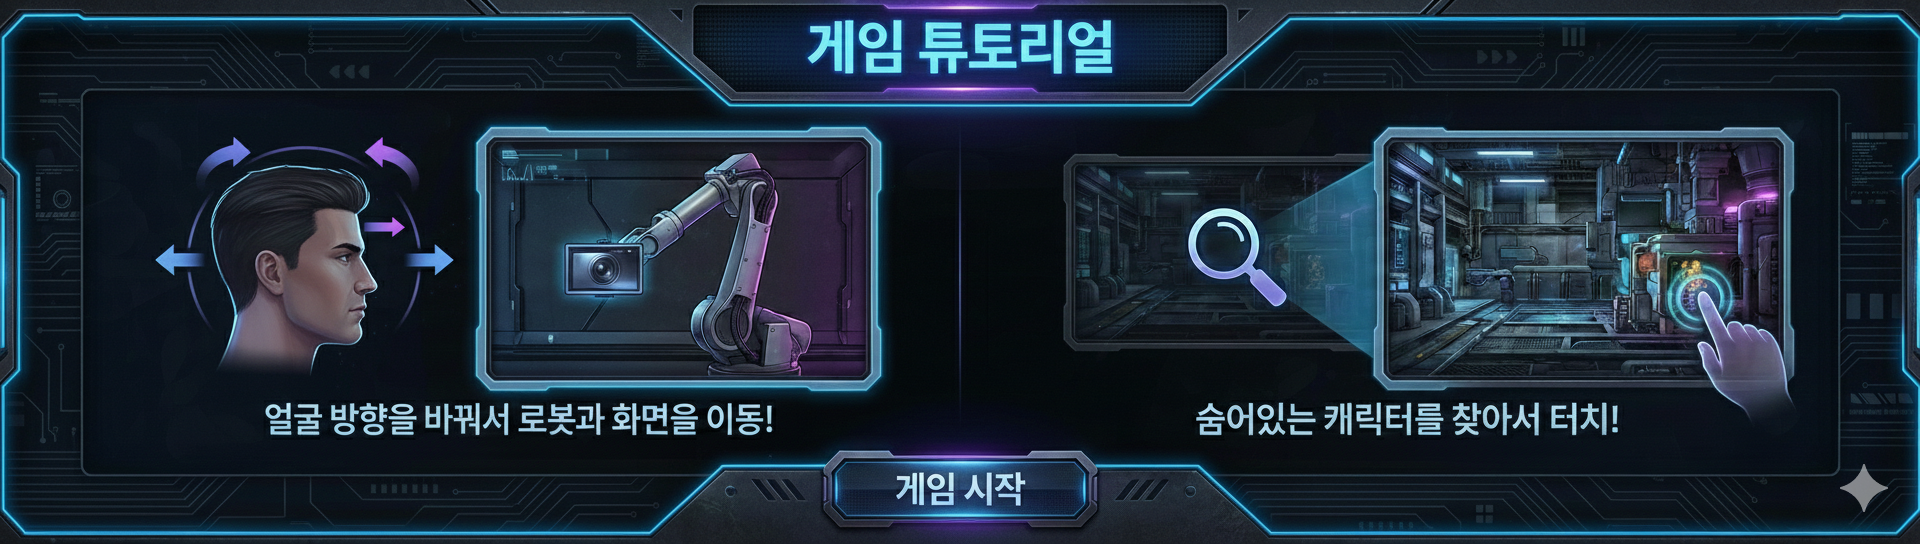
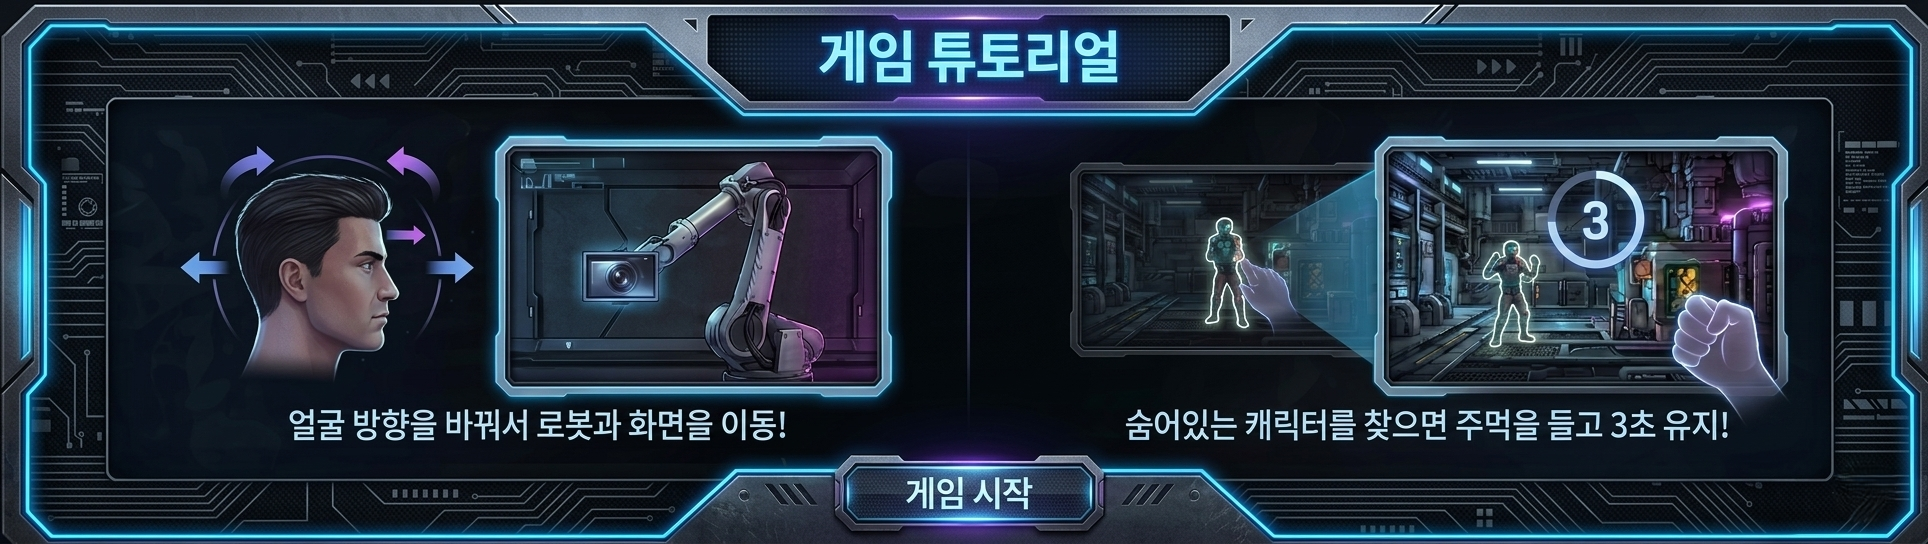
feat: game02에서 정답 찾는 방법 모니터 화면 터치에서 카메라에 주먹 3초 인식으로 변경 - python에서 주먹 인식 유지 progress 0~100 으로 보내주는 것을 받아서 UI및 게임에 반영

diff --git a/scenes/Game02/hooks/useGame02.ts b/scenes/Game02/hooks/useGame02.ts
@@ -31,6 +31,7 @@ import {
   computeViewWindow,
   normalizeError,
   isClickOnTarget,
+  isViewContainingTarget,
   formatTime,
 } from '../utils';
 
@@ -54,9 +55,15 @@ export function useGame02(
   const [timeLeft, setTimeLeft] = useState(GAME_TIME_LIMIT);
   const [lastClick, setLastClick] = useState<{ x: number; y: number } | null>(null);
   const [pauseOverlayVisible, setPauseOverlayVisible] = useState(false);
+  const [rockProgress, setRockProgress] = useState(0); // 0~100, Python GAME02_PROGRESS_ANSWER
   const timerRef = useRef<ReturnType<typeof setInterval> | null>(null);
   const resultReportedRef = useRef(false);
   const viewportRef = useRef<HTMLDivElement | null>(null);
+  const prevRockProgressRef = useRef(0);
+  const scenarioRef = useRef(scenario);
+  const viewTopLeftRef = useRef<{ x: number; y: number }>({ x: 0, y: 0 });
+  const viewWindowRef = useRef<{ w: number; h: number }>({ w: 1, h: 1 });
+  const stateRef = useRef(state);
 
   const [viewportAspect, setViewportAspect] = useState<number>(DEFAULT_SCENE_ASPECT);
   const viewWindow = useMemo(
@@ -71,6 +78,11 @@ export function useGame02(
   const [viewTopLeft, setViewTopLeft] = useState<{ x: number; y: number }>(
     DEFAULT_CENTER_TOP_LEFT
   );
+
+  scenarioRef.current = scenario;
+  viewTopLeftRef.current = viewTopLeft;
+  viewWindowRef.current = viewWindow;
+  stateRef.current = state;
 
   const dragRef = useRef<{
     active: boolean;
@@ -172,6 +184,38 @@ export function useGame02(
     });
     return () => { unsubscribe(); };
   }, []);
+
+  // Python Vision WebSocket: GAME02_PROGRESS_ANSWER(0~100) 수신. 100 도달 시 현재 뷰에 정답 포함 여부로 success/fail
+  useEffect(() => {
+    const unsubscribe = getVisionWsService().onGame02ProgressAnswer((progress: number) => {
+      setRockProgress(progress);
+      if (progress >= 100 && prevRockProgressRef.current < 100 && stateRef.current === Game02State.PLAYING) {
+        const s = scenarioRef.current;
+        const vt = viewTopLeftRef.current;
+        const vw = viewWindowRef.current;
+        if (s && vt && vw) {
+          const hit = isViewContainingTarget(s, vt, vw);
+          if (hit) {
+            setState(Game02State.SUCCESS);
+            confetti({ particleCount: 150, spread: 70, origin: { y: 0.6 } });
+          } else {
+            setReasoning('거기가 아닙니다!');
+            setTimeout(() => setReasoning(''), 2000);
+          }
+        }
+      }
+      prevRockProgressRef.current = progress;
+    });
+    return () => { unsubscribe(); };
+  }, []);
+
+  // 씬/라운드 바뀔 때 rock progress 초기화
+  useEffect(() => {
+    if (state !== Game02State.PLAYING) {
+      setRockProgress(0);
+      prevRockProgressRef.current = 0;
+    }
+  }, [state]);
 
   useEffect(() => {
     if (state === Game02State.ANNOUNCING) {
@@ -405,5 +449,6 @@ export function useGame02(
     formatTime,
     pauseOverlayVisible,
     handlePauseCancel,
+    rockProgress,
   };
 }

diff --git a/scenes/Game02/screens/Game02Play.tsx b/scenes/Game02/screens/Game02Play.tsx
@@ -22,6 +22,7 @@ export interface Game02PlayProps {
   };
   lastClick: { x: number; y: number } | null;
   reasoning: string;
+  rockProgress: number; // 0~100, Python GAME02_PROGRESS_ANSWER (rock 3초 유지)
   viewportRef: React.RefObject<HTMLDivElement | null>;
   formatTime: (seconds: number) => string;
   onViewportPointerDown: (e: React.PointerEvent<HTMLDivElement>) => void;
@@ -43,6 +44,7 @@ const Game02Play: React.FC<Game02PlayProps> = ({
   viewPoseStatus,
   lastClick,
   reasoning,
+  rockProgress,
   viewportRef,
   formatTime,
   onViewportPointerDown,
@@ -159,6 +161,32 @@ const Game02Play: React.FC<Game02PlayProps> = ({
                 willChange: 'transform',
               }}
             />
+
+            {/* Rock 3초 유지 진행률: 흰색 원형 progress bar (게임 이미지 뷰 위) */}
+            {state === Game02State.PLAYING && rockProgress > 0 && (
+              <div className="absolute inset-0 flex items-center justify-center pointer-events-none z-20">
+                <svg className="w-[min(80vw,80vh)] h-[min(80vw,80vh)] -rotate-90" viewBox="0 0 100 100" aria-hidden>
+                  <circle
+                    cx="50"
+                    cy="50"
+                    r="48"
+                    fill="none"
+                    stroke="rgba(255,255,255,0.2)"
+                    strokeWidth="4"
+                  />
+                  <circle
+                    cx="50"
+                    cy="50"
+                    r="48"
+                    fill="none"
+                    stroke="white"
+                    strokeWidth="4"
+                    strokeLinecap="round"
+                    strokeDasharray={`${(rockProgress / 100) * 2 * Math.PI * 48} ${2 * Math.PI * 48}`}
+                  />
+                </svg>
+              </div>
+            )}
 
             {lastClick && (
               <div

diff --git a/services/visionWebSocketService.ts b/services/visionWebSocketService.ts
@@ -99,6 +99,7 @@ export class VisionWebSocketService {
   private onQRROICallback?: (data: VisionQRROIData) => void;
   private onGame05AttackCallback?: () => void;
   private onGame02PauseCallback?: () => void;
+  private onGame02ProgressAnswerCallback?: (progress: number) => void;
   private onGame04PauseCallback?: () => void;
 
   constructor(url: string) {
@@ -391,6 +392,11 @@ export class VisionWebSocketService {
       } else if (name === VisionMessageName.GAME02_PAUSE) {
         this.onGame02PauseCallback?.();
         console.log('[VisionWS] GAME02_PAUSE received');
+      } else if (name === VisionMessageName.GAME02_PROGRESS_ANSWER) {
+        const data = payload as { progress?: number };
+        if (data && typeof data.progress === 'number') {
+          this.onGame02ProgressAnswerCallback?.(Math.min(100, Math.max(0, data.progress)));
+        }
       } else if (name === VisionMessageName.GAME04_PAUSE) {
         this.onGame04PauseCallback?.();
         console.log('[VisionWS] GAME04_PAUSE received');
@@ -459,6 +465,12 @@ export class VisionWebSocketService {
   onGame02Pause(cb: () => void): () => void {
     this.onGame02PauseCallback = cb;
     return () => { this.onGame02PauseCallback = undefined; };
+  }
+
+  /** Game02 씬에서 Python이 GAME02_PROGRESS_ANSWER(0~100) 수신 시 구독. rock 3초 유지 진행률. */
+  onGame02ProgressAnswer(cb: (progress: number) => void): () => void {
+    this.onGame02ProgressAnswerCallback = cb;
+    return () => { this.onGame02ProgressAnswerCallback = undefined; };
   }
 
   /** Game04 씬에서 Python이 GAME04_PAUSE 수신 시 구독. PAUSE 오버레이 표시용. */

diff --git a/scenes/Game02/utils.ts b/scenes/Game02/utils.ts
@@ -92,6 +92,24 @@ export function isClickOnTarget(
   return x >= pxmin && x <= pxmax && y >= pymin && y <= pymax;
 }
 
+/** 현재 뷰 영역(viewTopLeft, viewWindow, 0~1)이 타겟 박스를 포함하는지(겹치는지) */
+export function isViewContainingTarget(
+  scenario: GameScenario,
+  viewTopLeft: { x: number; y: number },
+  viewWindow: { w: number; h: number }
+): boolean {
+  const [ymin, xmin, ymax, xmax] = scenario.targetBox;
+  const viewLeft = viewTopLeft.x;
+  const viewRight = viewTopLeft.x + viewWindow.w;
+  const viewTop = viewTopLeft.y;
+  const viewBottom = viewTopLeft.y + viewWindow.h;
+  const tLeft = xmin / 1000;
+  const tRight = xmax / 1000;
+  const tTop = ymin / 1000;
+  const tBottom = ymax / 1000;
+  return viewLeft < tRight && viewRight > tLeft && viewTop < tBottom && viewBottom > tTop;
+}
+
 /** base64 장면 이미지에서 targetBox 영역 크롭 → data URL */
 export function cropTargetImage(
   base64: string,

diff --git a/protocol.ts b/protocol.ts
@@ -153,6 +153,8 @@ export const VisionMessageName = {
   GAME02_MAINGAME_START: 'GAME02_MAINGAME_START',
   /** Python → 프론트: Game02 fix된 참여자 이탈 시 일시정지 안내. 프론트는 PAUSE 오버레이 표시 후 터치로 해제 */
   GAME02_PAUSE: 'GAME02_PAUSE',
+  /** Python → 프론트: Game02 본게임 중 rock 인식 시 0~100 진행률 (3초 유지 시 100). data: { progress: number } */
+  GAME02_PROGRESS_ANSWER: 'GAME02_PROGRESS_ANSWER',
   /** 프론트 → Python: Game04 본게임 시작 시그널. Python은 on_main_game_start() 처리 */
   GAME04_MAINGAME_START: 'GAME04_MAINGAME_START',
   /** Python → 프론트: fix된 참여자 이탈 시 일시정지 안내. 프론트는 PAUSE 오버레이 표시 후 터치로 해제 */

diff --git a/scenes/Game02/index.tsx b/scenes/Game02/index.tsx
@@ -46,6 +46,7 @@ const Game02: React.FC<Game02Props> = ({
     formatTime,
     pauseOverlayVisible,
     handlePauseCancel,
+    rockProgress,
   } = useGame02(onGameResult, triggerStartFromBackend);
 
   return (
@@ -98,6 +99,7 @@ const Game02: React.FC<Game02Props> = ({
           reasoning={reasoning}
           viewportRef={viewportRef}
           formatTime={formatTime}
+          rockProgress={rockProgress}
           onViewportPointerDown={onViewportPointerDown}
           onViewportPointerMove={onViewportPointerMove}
           onViewportPointerUp={onViewportPointerUp}
